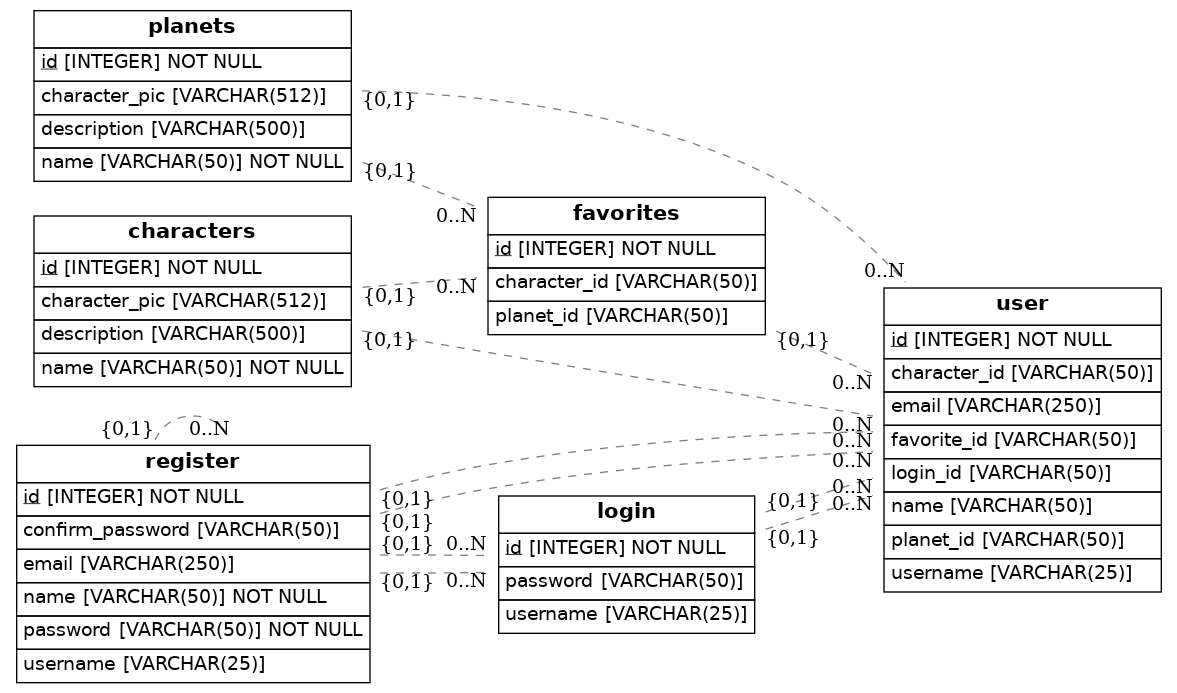
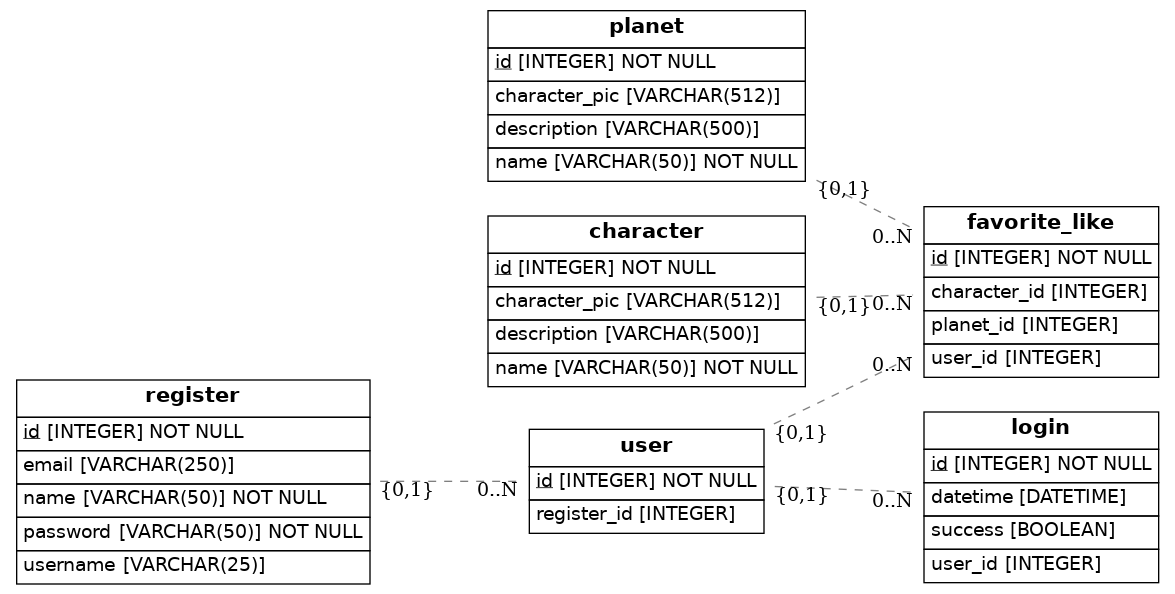
edited the diagram

Changed region(s): [[0.0, 0.0, 1.0, 1.0], [0.0306, 0.0, 0.3677, 0.2727]]

diff --git a/src/models.py b/src/models.py
@@ -1,29 +1,31 @@
-from sqlalchemy import Column, ForeignKey, Integer, String, Boolean
+from sqlalchemy import Column, ForeignKey, Integer, String, Boolean, DateTime
 from sqlalchemy.orm import declarative_base
 from eralchemy2 import render_er
+import datetime
 
 Base = declarative_base()
 
 
-class Planets(Base): 
-    __tablename__ = 'planets'
+class Planet(Base): 
+    __tablename__ = 'planet'
     id = Column(Integer, primary_key=True)
     name = Column(String(50), nullable=False)
     description = Column(String(500), nullable=True)
     character_pic = Column(String(512), nullable=True)
 
-class Characters(Base):
-    __tablename__ = 'characters'
+class Character(Base):
+    __tablename__ = 'character'
     id = Column(Integer, primary_key=True)
     name = Column(String(50), nullable=False)
     description = Column(String(500), nullable=True)
     character_pic = Column(String(512), nullable=True)
 
-class Favorites(Base): 
-    __tablename__ = 'favorites'
+class FavoriteLike(Base): 
+    __tablename__ = 'favorite_like'
     id = Column(Integer, primary_key=True)
-    character_id = Column(String(50), ForeignKey('characters.id'))
-    planet_id = Column(String(50), ForeignKey('planets.id'))
+    character_id = Column(Integer, ForeignKey('character.id'))
+    planet_id = Column(Integer, ForeignKey('planet.id'))
+    user_id = Column(Integer, ForeignKey('user.id'))
 
 class Register(Base): 
     __tablename__ = 'register'
@@ -32,27 +34,18 @@ class Register(Base):
     username = Column(String(25), unique=True)
     email = Column(String(250), unique=True)
     password = Column(String(50), nullable=False)
-    confirm_password = Column(String(50), ForeignKey('register.password'))
 
 class LogIn(Base):
     __tablename__ = 'login'
     id = Column(Integer, primary_key=True)
-    username = Column(String(25), ForeignKey('register.id'))
-    password = Column(String(50), ForeignKey('register.id'))
+    datetime = Column(DateTime, default=datetime.datetime.now())
+    success = Column(Boolean, default=False)
+    user_id = Column(Integer, ForeignKey('user.id'))
 
 class User(Base):
     __tablename__ = 'user'
-    # Here we define columns for the table person
-    # Notice that each column is also a normal Python instance attribute.
     id = Column(Integer, primary_key=True)
-    name = Column(String(50), ForeignKey('register.id'))
-    username = Column(String(25), ForeignKey('register.id'))
-    # username = Column(String(25), ForeignKey('login.username'))
-    email = Column(String(250), ForeignKey('register.id'))
-    login_id = Column(String(50), ForeignKey('login.id'))
-    favorite_id = Column(String(50), ForeignKey('favorites.id'))
-    character_id = Column(String(50), ForeignKey('characters.id'))
-    planet_id = Column(String(50), ForeignKey('planets.id'))
+    register_id = Column(Integer, ForeignKey('register.id'))
 
     def to_dict(self):
         return {}
